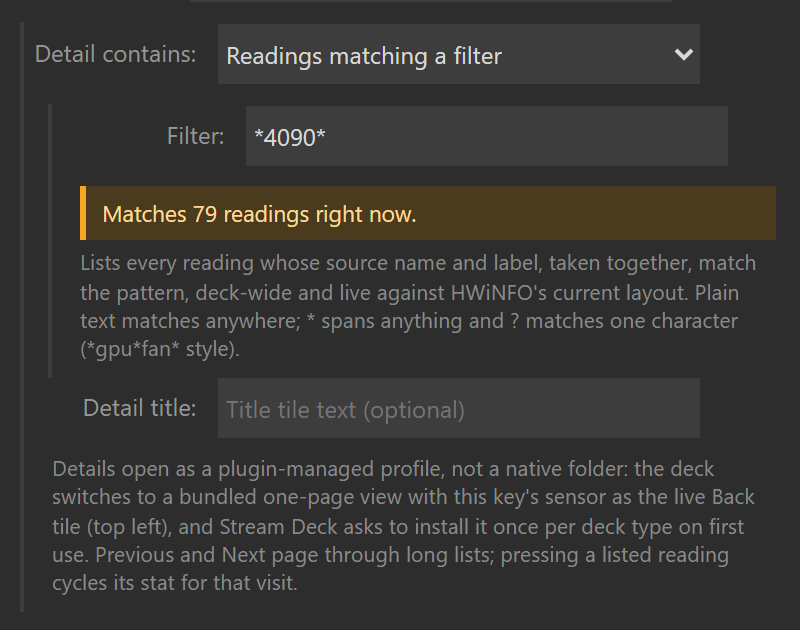
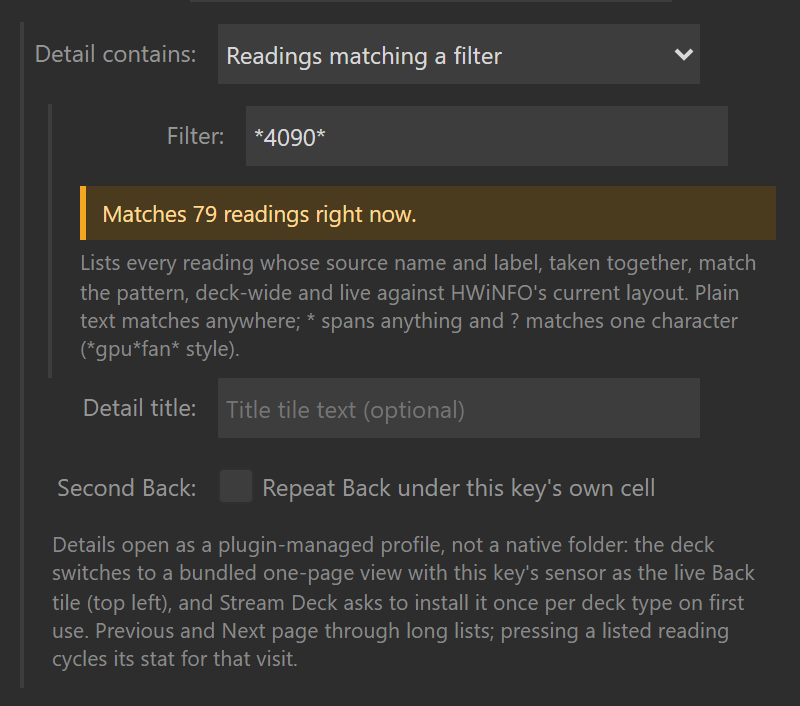
docs(detail): show the setting and the two ways out
capture-pi gains a nineteenth state: the Press block with "Repeat Back
under this key's own cell" ticked, asserted on and then asserted back
off so every later state keeps the default panel. gen-docs-shots
renders the detail board twice from one setup: the shipped default
page, and the same page with the opener's slot reserved (slot 4, the
center cell) so the second Back face sits mid-grid with the readings
flowing around it.

sensor-details.md embeds both new shots: the ticked Press panel under
Turning it on, the dual-Back board under The detail page. The filter
panel screenshot is refreshed to show the Second Back row the panel
gained in 2f88f8a, and detail-view.png is re-rendered from the same
moment as its new sibling.

diff --git a/docs/sensor-details.md b/docs/sensor-details.md
@@ -25,6 +25,8 @@ In the key's settings panel, under **Press**:
 - **Detail title** names the view's title tile in any mode, replacing the default (the source name, the filter pattern, or Custom set).
 - **Repeat Back under this key's own cell** adds the optional second Back tile described [below](#the-detail-page); leave it off and the movable top-left Back is the one way out.
 
+![The Press section of the settings panel: Press does set to Open sensor details, Detail contains on All readings from this sensor source, an empty Detail title field, and the Second Back checkbox ticked, reading Repeat Back under this key's own cell.]({{ '/assets/img/detail-press-panel.png' | relative_url }})
+
 Existing keys are untouched: a key without a Press setting behaves exactly as it always has.
 
 ## The detail page
@@ -39,6 +41,8 @@ Every detail page has the same furniture:
 - **Previous / Next**: page through long lists. The chevron dims at either end. Paging happens inside the one profile page; nothing stacks.
 - **Reading tiles**: one live reading each, themed like the opener, with the type accent of their own reading. Pressing a tile cycles that tile's current / min / max / avg for this visit; leaving the view resets those. Reading tiles deliberately do not inherit the opener's thresholds: an 80 °C warn level means nothing on a wattage or clock tile. The Back tile keeps its own.
 - **No sparklines on reading tiles, by design.** A sparkline needs a history buffer that fills over a minute or more, and a detail page shows up to 32 arbitrary readings that change with every page turn and every filter, so the lines would draw mostly empty while costing buffer churn on every visit. The tiles stay instant and scannable; your opener key keeps its own sparkline back on your page.
+
+![The same 15-key detail page with the second Back enabled: the CPU temperature opener appears twice with the return arrow in its corner, once on the top-left Back tile and once on the center cell where the key sits, the title range reads 1-10 of 71 instead of 1-11, and the readings flow around the second tile.]({{ '/assets/img/detail-second-back.png' | relative_url }})
 
 If HWiNFO stops publishing while the view is open, the tiles show the same status screens as ordinary keys and recover on their own; Back keeps working throughout. If a listed reading disappears (custom mode), its tile shows **Sensor missing** in place, and the others do not shift.
 
@@ -59,7 +63,7 @@ The filter is a glob, not a regex: `*` spans anything, `?` matches exactly one c
 2. **One wildcard anchors the whole pattern.** The moment a pattern contains `*` or `?`, the automatic wrapping is off and the pattern must cover the entire combined text. `core*clock` matches nothing, because the text starts with the source name, not with "core"; `*core*clock*` is the form you want.
 3. **Spaces are literal.** Multi-word plain text works only when the words sit adjacent in the name: `gpu fan` finds the GPU fans, but `core clock` finds nothing because the cores are named `Core 0 Clock`. Span the gap with a star: `*core*clock*`.
 
-![The Press section of the settings panel with Detail contains set to Readings matching a filter: the Filter field holds the pattern star 4090 star, and a live hint under it reads Matches 79 readings right now, above the help text and the Detail title field.]({{ '/assets/img/detail-filter-panel.png' | relative_url }})
+![The Press section of the settings panel with Detail contains set to Readings matching a filter: the Filter field holds the pattern star 4090 star, and a live hint under it reads Matches 79 readings right now, above the help text, the Detail title field and the unticked Second Back checkbox.]({{ '/assets/img/detail-filter-panel.png' | relative_url }})
 
 Patterns I run on my own bench (512 readings across 21 sources), with their live match counts:
 
